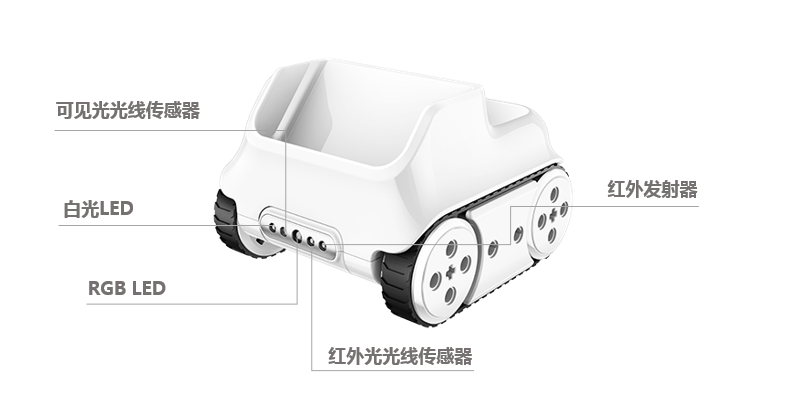
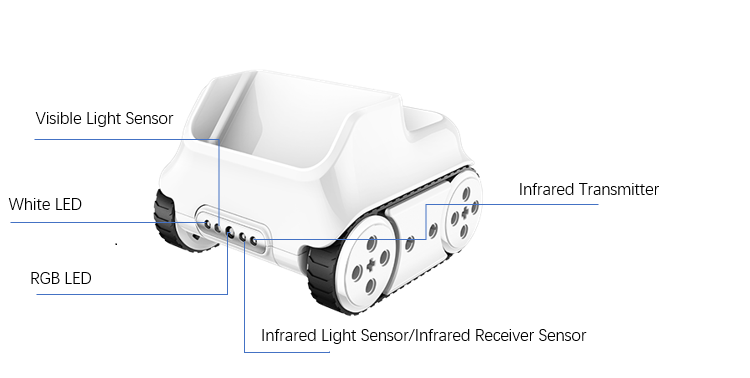
update color&ir sensor

diff --git a/docs/codey&rocky/rocky/color&ir sensor.rst b/docs/codey&rocky/rocky/color&ir sensor.rst
@@ -17,7 +17,7 @@ As shown in the figure, the sensors in front of the rocky are
 - Visible Light Sensor：detect the visible light intensity.
 - RGB LED：light LED with specific RGB value to achieve recognizing the color with using the visible light sensor.
 - Infrared Light Sensor：detect the infrared light intensity
-- IR Transmitter：transmit infrared light to achieve detecting the infrared light reflection intensity on the surface of the object with using the infrared light sensor.
+- Infrared Transmitter：transmit infrared light to achieve detecting the infrared light reflection intensity on the surface of the object with using the infrared light sensor.
 
 Function
 ----------------------
